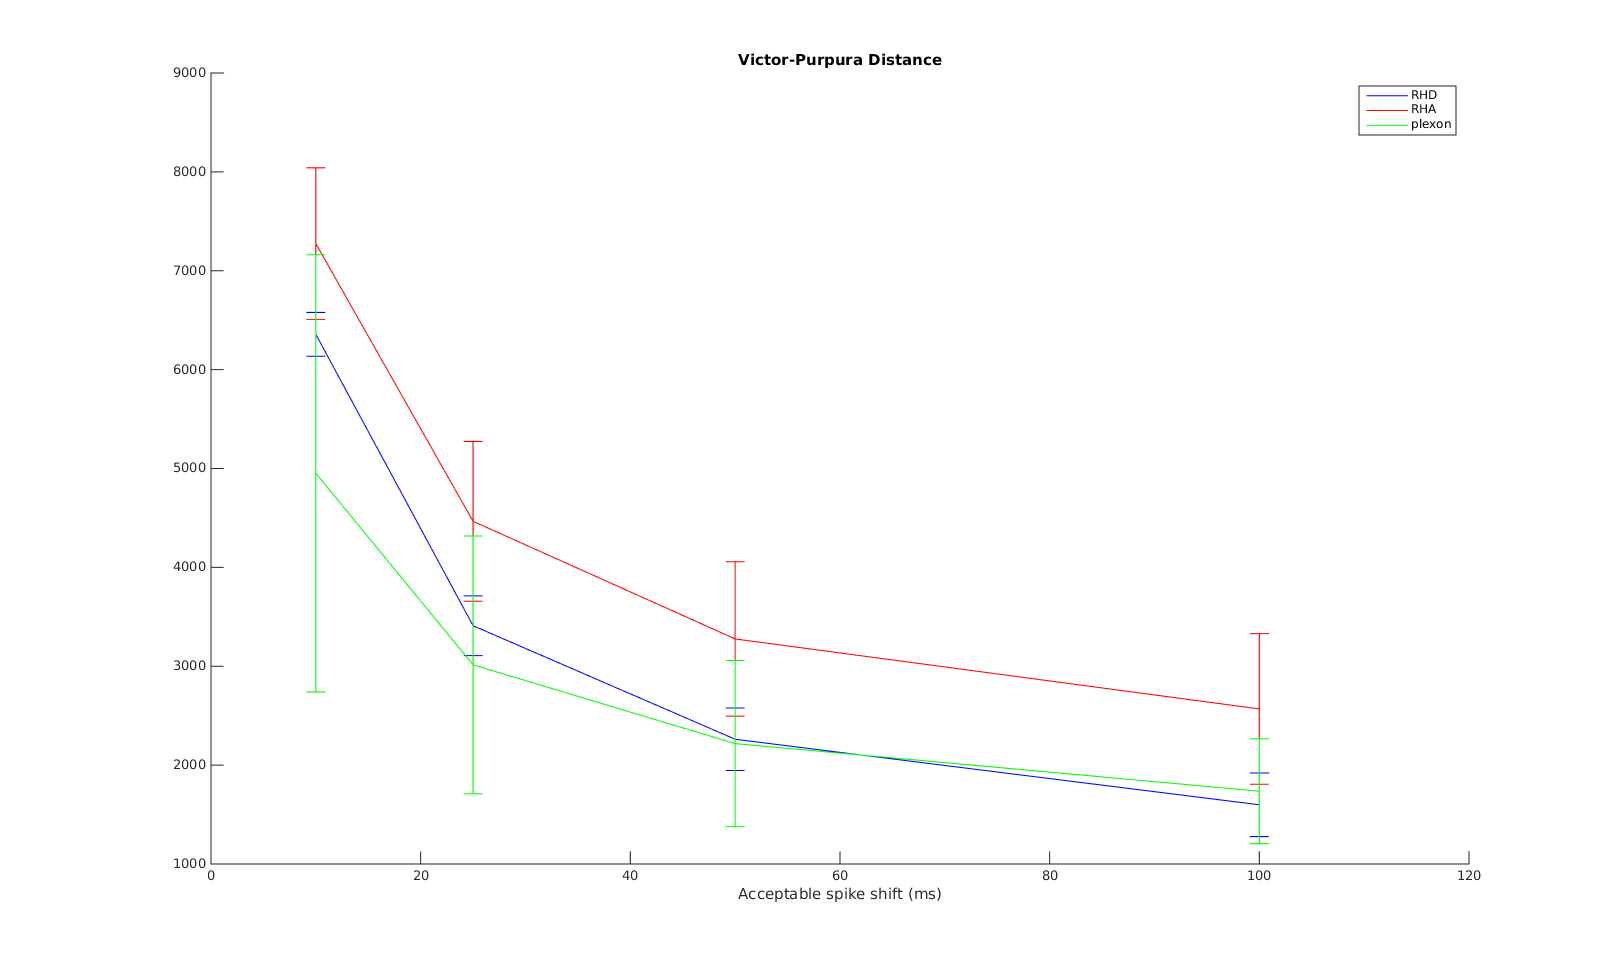
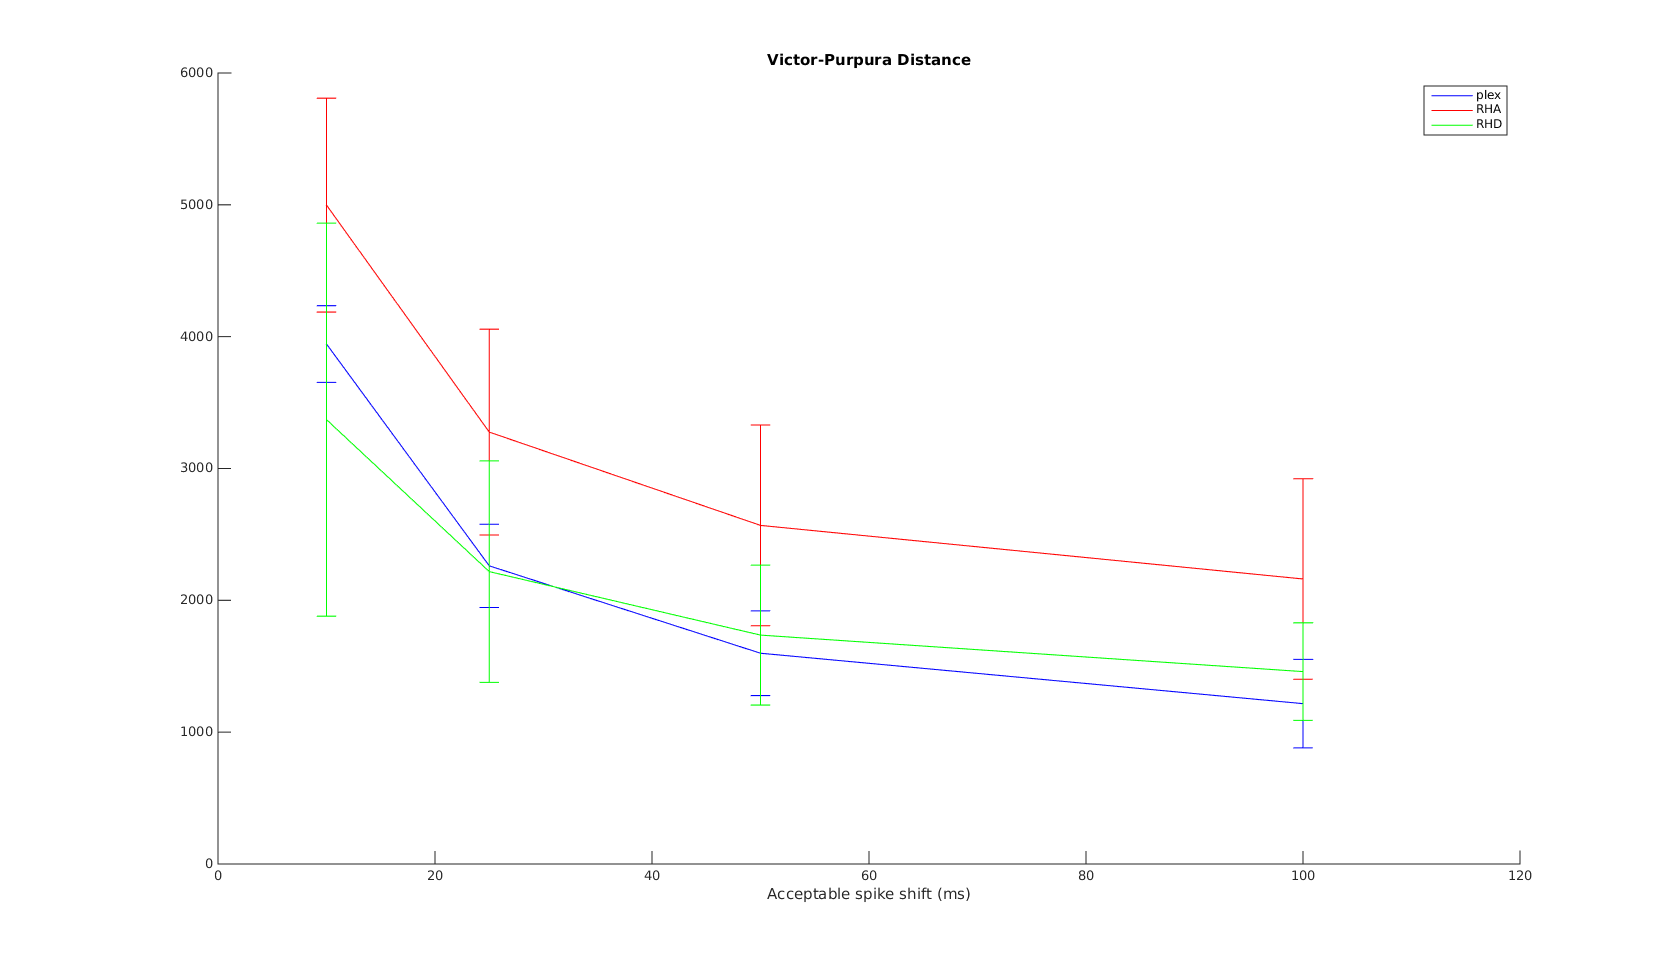
Changed binned_xcorr to used binned distance rather than binned-correlation-measure.
Updated images

diff --git a/analysis/compare_signals.m b/analysis/compare_signals.m
@@ -54,18 +54,18 @@ RHDlines = {'k-*', 'b-*', 'r-*', 'g-*', 'c-*'}; % RHD is *
 RHAlines = {'k-o', 'b-o', 'r-o', 'g-o', 'c-o'}; % RHA is o
 plexlines= {'k-x', 'b-x', 'r-x', 'g-x', 'c-x'}; % plexon is x
 
-% d_CC
+% d_B
 figure; hold on;
 l = {};
 for i=1:numel(SNR)
-    plot(binSize, RHD_results{i}.binnedXCorr.d_CC, RHDlines{i});
-    plot(binSize, RHA_results{i}.binnedXCorr.d_CC, RHAlines{i});
-    plot(binSize, plex_results{i}.binnedXCorr.d_CC, plexlines{i});
+    plot(binSize, RHD_results{i}.binnedXCorr.d_B, RHDlines{i});
+    plot(binSize, RHA_results{i}.binnedXCorr.d_B, RHAlines{i});
+    plot(binSize, plex_results{i}.binnedXCorr.d_B, plexlines{i});
     l = [l, sprintf('RHD %ddB', SNR(i)), sprintf('RHA %ddB', SNR(i)), sprintf('Plex %ddB', SNR(i))];
 end
 xlim([0, 120]); xlabel('Bin size (ms)');
-ylim([0, 1]); ylabel('Dissimilarity');
-title('Binned cross-correlation dissimilarity');
+ylabel('Distance');
+title('Binned distance');
 legend(l);
 
 % Victor-Purpura distance
@@ -109,17 +109,17 @@ title('Schreiber dissimilarity');
 legend(l);
 
 %--------- Plot mean+/-std of metric over different noise level---------------
-RHD_d_CC = cell2mat(cellfun(@(x) x.binnedXCorr.d_CC.', RHD_results, 'UniformOutput', false));
-RHA_d_CC = cell2mat(cellfun(@(x) x.binnedXCorr.d_CC.', RHA_results, 'UniformOutput', false));
-plex_d_CC = cell2mat(cellfun(@(x) x.binnedXCorr.d_CC.', plex_results, 'UniformOutput', false));
+RHD_d_B = cell2mat(cellfun(@(x) x.binnedXCorr.d_B.', RHD_results, 'UniformOutput', false));
+RHA_d_B = cell2mat(cellfun(@(x) x.binnedXCorr.d_B.', RHA_results, 'UniformOutput', false));
+plex_d_B = cell2mat(cellfun(@(x) x.binnedXCorr.d_B.', plex_results, 'UniformOutput', false));
 figure; hold on;
-errorbar(binSize, mean(RHD_d_CC,1), std(RHD_d_CC,1), 'b');
-errorbar(binSize, mean(RHA_d_CC,1), std(RHA_d_CC,1), 'r');
-errorbar(binSize, mean(plex_d_CC,1), std(plex_d_CC,1), 'g');
+errorbar(binSize, mean(RHD_d_B,1), std(RHD_d_B,1), 'b');
+errorbar(binSize, mean(RHA_d_B,1), std(RHA_d_B,1), 'r');
+errorbar(binSize, mean(plex_d_B,1), std(plex_d_B,1), 'g');
 legend('RHD', 'RHA', 'plexon');
 xlim([0, 120]); xlabel('Bin size (ms)');
-ylim([0, 1]); ylabel('Dissimilarity');
-title('Binned cross-correlation dissimilarity');
+ylabel('Distance');
+title('Binned distance');
 
 RHD_VP = cell2mat(cellfun(@(x) x.VPDist, RHD_results, 'UniformOutput', false));
 RHA_VP = cell2mat(cellfun(@(x) x.VPDist, RHA_results, 'UniformOutput', false));

diff --git a/analysis/binned_xcorr.m b/analysis/binned_xcorr.m
@@ -1,22 +1,17 @@
-function [acor_lag, d_CC] = binned_xcorr(train1, train2, binSize)
+function [acor_lag, d_B] = binned_xcorr(train1, train2, binSize)
 
 % Given the spike times in train1 and train2 in seconds, use values in binSize for binning.
 % Plot the cross-correlation of the binned firing rates and print out the maximum cross-correlation
 % value and the time lag.
 %
-% Also calculates the binned cross-correlation similarity measures, which is the
-% cosine of the angle between the two binned vectors. See d_CC in:
-%
-%   Paiva, Park and Principe:
-%   "A comparison of binless spike train measures"
-%   Neural computing and applications (2010).
-%
+% Also calculates the binned distance, which is the absolute value of different of binned firing rates,
+% defined as D_B in (Chicharro et al., 2011)
 %
 % train1, train2: column vectors, spike times in seconds
 % binSize: vector with the bin size in ms.
 % acor_lag: cell of arrays, number of elements equalt to that in binSize.
 %           Each cell contains the [acor,lag] for each cross-correlation. 
-% d_CC: binned cross-correlation similarity metric for each binsize.
+% d_B: binned distance for each binsize.
 %
 % -Allen Yin
 
@@ -27,7 +22,7 @@ function [acor_lag, d_CC] = binned_xcorr(train1, train2, binSize)
 
     fprintf('\n----------Binned cross-correlation metrics----------\n');
     acor_lag = cell(numel(binSize),1);
-    d_CC = zeros(numel(binSize),1);
+    d_B = zeros(numel(binSize),1);
     for t=1:numel(binSize),
         [binned, bins, ~] = binning(allSpikes, binSize(t)); % binned has units of spike/binsize(t)
         binned = binned./(binSize(t)*1e-3);
@@ -47,9 +42,8 @@ function [acor_lag, d_CC] = binned_xcorr(train1, train2, binSize)
                 binSize(t), -lagDiff*binSize(t), acor(I));
         acor_lag{t} = [acor,lag];
 
-        % calculate dissimilarity measure (distance)
-        d_CC(t) = 1-dot(binned(1,:), binned(2,:))/(norm(binned(1,:))*norm(binned(2,:)));
-        fprintf('               Dissimilarity measure with rectangular kernel = %0.3f\n', d_CC(t));
+        % calculate binned distance
+        d_B(t) = sum(abs(binned(1,:) - binned(2,:)));
     end
 end
 

diff --git a/analysis/compareSpikeTimes.m b/analysis/compareSpikeTimes.m
@@ -26,10 +26,10 @@ function [binnedXcorr, VPDist, VRDist, SchreiberDist] = compareSpikeTimes(refSpi
     xlabel('time (s)');
 
     % Plot binned firing rates, analyze cross-correlation.
-    [binnedXcorr.acor_lag, binnedXcorr.d_CC] = binned_xcorr(refSpikeTimes(2:end), dataSpikeTimes(2:end), binSize);    
+    [binnedXcorr.acor_lag, binnedXcorr.d_B] = binned_xcorr(refSpikeTimes(2:end), dataSpikeTimes(2:end), binSize);    
 
     % Victor-Purpura distance
-    q = 2./(binSize.*1e-3);         % cost of shifting a spike is 1 if moved by 10ms, 25ms, etc..
+    q = 1./(binSize.*1e-3);         % cost of shifting a spike is 1 if moved by 10ms, 25ms, etc..
     Jl.include('spkd_qpara.jl');    % This program must be run in the same directory as the julia file.
     VPDist = zeros(size(q));
     fprintf('\n-----------Victor-Purpura distance---------\n');

diff --git a/analysis/plexonMetric.m b/analysis/plexonMetric.m
@@ -21,7 +21,7 @@ function [signals, waveformData, refSpikeTimes, dataSpikeTimes, binnedXcorr, VPD
 %   waveformData - wireless recording waveform data, normalized to [-1,1].
 %   refSpikeTimes - spike times of reference signal, after aligning the first peak with that of recording.
 %   dataSpikeTimes - spike times of wireless recording, after aligning the first with that of reference.
-%   binnedXcorr - struct containing d_CC and acor_lag. d_CC is binned cross-correlation similarity measure.
+%   binnedXcorr - struct containing d_B and acor_lag. d_B is binned distance 
 %                 acor_lag is a cell-array of the cross-correlation of the binned firing rates.
 %   VPDist - Victor-purpura distances.
 %   VRDist - Van Rossum distances.

diff --git a/analysis/wirelessMetric.m b/analysis/wirelessMetric.m
@@ -21,7 +21,7 @@ function [signals, waveformData, refSpikeTimes, dataSpikeTimes, binnedXcorr, VPD
 %   waveformData - wireless recording waveform data, normalized to [-1,1].
 %   refSpikeTimes - spike times of reference signal, after aligning the first peak with that of recording.
 %   dataSpikeTimes - spike times of wireless recording, after aligning the first with that of reference.
-%   binnedXcorr - struct containing d_CC and acor_lag. d_CC is binned cross-correlation similarity measure.
+%   binnedXcorr - struct containing d_B and acor_lag. d_B is binned distance.
 %                 acor_lag is a cell-array of the cross-correlation of the binned firing rates.
 %   VPDist - Victor-purpura distances.
 %   VRDist - Van Rossum distances.

diff --git a/analysis/compareMetrics.m b/analysis/compareMetrics.m
@@ -28,13 +28,13 @@ close all;
 % Plot comparison values
 
 figure;
-plot(binSize, RHD.binnedXCorr.d_CC, 'b-*');
+plot(binSize, RHD.binnedXCorr.d_B, 'b-*');
 hold on;
-plot(binSize, RHA.binnedXCorr.d_CC, 'r-*');
-plot(binSize, plexon.binnedXCorr.d_CC, 'g-*');
+plot(binSize, RHA.binnedXCorr.d_B, 'r-*');
+plot(binSize, plexon.binnedXCorr.d_B, 'g-*');
 xlim([0, 120]); xlabel('Bin size (ms)');
-ylim([0, 1]); ylabel('Dissimilarity');
-title('Binned cross-correlation dissimilarity');
+ylabel('Dissimilarity');
+title('Binned distance');
 legend('RHD', 'RHA', 'plexon');
 
 figure;
